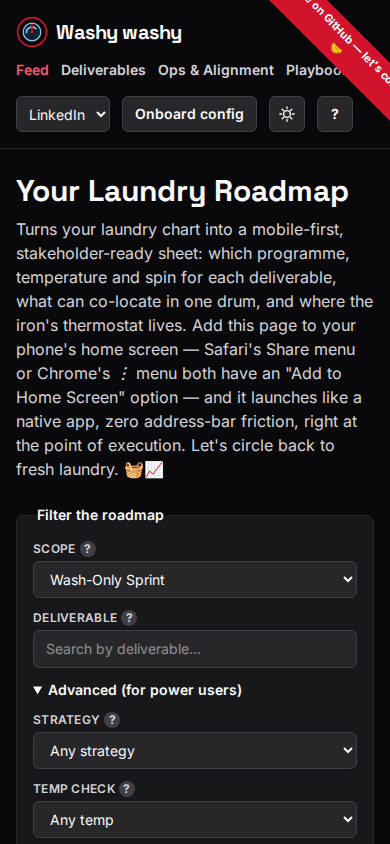
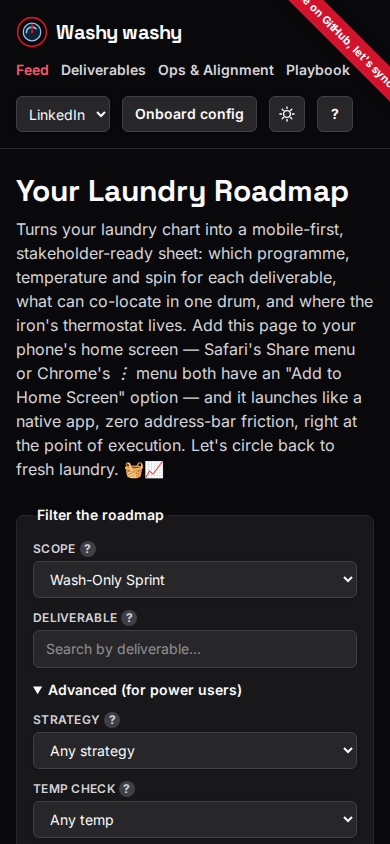
fix(i18n): stop the LinkedIn locale's ribbon text clipping (#159)
The LinkedIn-speak translation of "Fork me on GitHub" ("...— let's
connect 🤝") ran nearly twice the English original's length. The
ribbon's link box is fixed-size (225px/195px, desktop/<640px) — the
extra length wrapped it to a second line, which then got cropped by
the ribbon's own overflow:hidden clip window. Reported live on a
desktop browser in portrait mode.

Rather than guess at a "safe" short replacement, measured the actual
budget: canvas.measureText() against the ribbon link's real computed
style (bold Inter Variable, 13px/11px) shows comfortable headroom up
to ~210px/178px rendered width at the two breakpoints, not the
English original's exact character count. Picked "Fork me on
GitHub, let's sync 🤝" from that — same energy as the original,
fits with margin at both sizes — documented the measured budget on
the Ui interface for future locales, and added a regression test
across every locale (comparing each locale's rendered ribbon height
against English's own, not a line-box count — Arabic's ribbon string
embeds Latin substrings, and each bidi direction change gets its own
client rect even on a single visual line, which would have made a
naive rect count a false positive).

Claude-Session: https://claude.ai/code/session_018s9SYK5vTPFUq4XwTrD7ki

Changed region(s): [[0.7077, 0.0, 1.0, 0.154]]

diff --git a/e2e/i18n.spec.ts b/e2e/i18n.spec.ts
@@ -1,4 +1,5 @@
 import { expect, type Page, test } from "@playwright/test";
+import { LOCALES, relativeLocaleUrl } from "../src/i18n/locales";
 import { expectNoA11yViolations } from "./a11y";
 
 /**
@@ -342,4 +343,31 @@ test("the bundled example chart and machine are translated too, not just the chr
   // Same for linkedin.
   await gotoHydrated(page, "/linkedin/");
   await expect(page.getByRole("article").first()).toContainText("Core Deliverable");
+});
+
+test("the GitHub ribbon's translated text never wraps to a second line, in every locale", async ({
+  page,
+}) => {
+  // The ribbon link (Layout.astro's .gh-ribbon, styled in global.css) is a
+  // fixed-size box sized for roughly the English original's length — a
+  // translation long enough to wrap onto a second line gets cropped by the
+  // ribbon's own `overflow: hidden` clip window instead of failing loudly
+  // (found live on a LinkedIn-speak translation nearly twice the original's
+  // length, #158). Comparing each locale's rendered height against
+  // English's own catches that: a second line roughly doubles it. Not a
+  // Range().getClientRects() line count — that over-counts for Arabic,
+  // whose ribbon string embeds Latin substrings ("Fork", "GitHub"): each
+  // bidi direction change gets its own rect even on a single visual line,
+  // read: single-line Arabic text on a real page.
+  await page.goto(relativeLocaleUrl("en", "/"));
+  const englishHeight = await page.locator(".gh-ribbon a").evaluate((el) => el.clientHeight);
+
+  for (const locale of LOCALES.filter((locale) => locale !== "en")) {
+    await page.goto(relativeLocaleUrl(locale, "/"));
+    const height = await page.locator(".gh-ribbon a").evaluate((el) => el.clientHeight);
+    expect(
+      height,
+      `${locale}'s ribbon text (${height}px tall) looks wrapped to a second line — English's is ${englishHeight}px`,
+    ).toBeLessThan(englishHeight * 1.5);
+  }
 });

diff --git a/src/i18n/ui.ts b/src/i18n/ui.ts
@@ -12,6 +12,25 @@ import { DEFAULT_LOCALE, type Locale } from "./locales";
  */
 export interface Ui {
   "skip.toContent": string;
+  /**
+   * The diagonal "Fork me on GitHub" corner ribbon (.gh-ribbon in
+   * global.css). Its link box has a real, measurable pixel budget, not
+   * just a "keep it short" guess — a translation longer than that wraps
+   * to a second line and gets cropped by the ribbon's own
+   * `overflow: hidden` clip window (found live on a LinkedIn-speak
+   * translation nearly twice the English original's length, #158). Both
+   * breakpoints have to fit, since the same string renders at each:
+   * bold Inter Variable (`--font-sans`) at 13px in a 225px-wide box
+   * (>=640px), and 11px in 195px (<640px). Measured live via
+   * `canvas.measureText()` against the real computed style, a string has
+   * comfortable headroom up to roughly 210px/178px rendered width at
+   * those two sizes respectively (leaving ~15px margin either side for
+   * font-fallback/rendering variance across browsers) — that is real
+   * room to work with, not the English original's exact character count.
+   * `e2e/i18n.spec.ts`'s ribbon-wrap test is the actual gate: it compares
+   * every locale's rendered ribbon height against English's own in a
+   * real browser, so trust that over hand-measuring.
+   */
   "ribbon.forkMe": string;
   "nav.home": string;
   "nav.washingLoads": string;
@@ -2424,7 +2443,7 @@ const jive: Ui = {
 
 const linkedin: Ui = {
   "skip.toContent": "Skip the fluff, straight to the value 🚀",
-  "ribbon.forkMe": "Fork me on GitHub — let's connect 🤝",
+  "ribbon.forkMe": "Fork me on GitHub, let's sync 🤝",
   "nav.home": "Feed",
   "nav.washingLoads": "Deliverables",
   "nav.washerIron": "Ops & Alignment",
